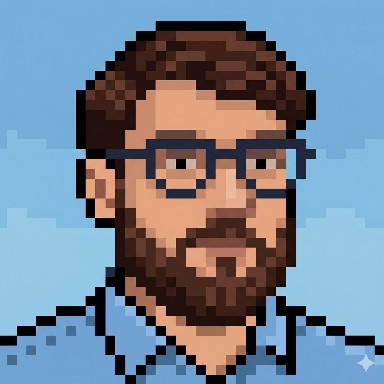
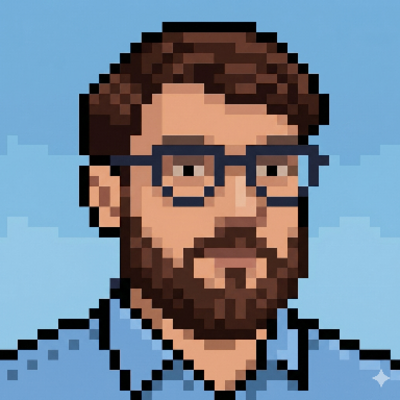
Remove Jupiter/Raydium references; normalize founder photos to 400x400
Per request, drop the "10 protocols (8 covered)" framing in favor of a
clean "eight major Solana protocols" presentation:

- README.md coverage table: dropped Rank column, removed Jupiter and
  Raydium rows; "What's next" no longer names them.
- AUDIT-REPORT.md: removed the leading paragraph flagging the two gaps,
  dropped Rank column, removed Jupiter (#4) and Raydium (#7) per-protocol
  records, renumbered remaining records 1..8, dropped the
  "2 of 10 not covered" limitation row.

Team photos were rendering at native resolution (Royce 384x384, Dheeraj
940x942, JP 1040x1014) which looked uneven. Normalised all three to
400x400 center-cropped, and switched the team table to <img> tags with
explicit width=200 height=200 so GitHub renders them at consistent display
size regardless of source resolution.

diff --git a/README.md b/README.md
@@ -52,19 +52,19 @@ Every CBOM is CycloneDX 1.6 strict-schema-conformant (validated against the upst
 
 ## Coverage
 
-| Rank | Protocol | LOC scanned | Findings | Attested on devnet |
-|-----:|----------|------------:|---------:|:------------------:|
-| 1 | Jito (restaking) | 68,672 | 27 | ✅ |
-| 2 | Marinade | 7,610 | 52 | ✅ |
-| 3 | Kamino (klend) | 36,990 | 35 | ✅ |
-| 4 | Jupiter | — | — | ❌ (source not yet checked out) |
-| 5 | Drift | 152,968 | 143 | ✅ |
-| 6 | MarginFi | 100,555 | 173 | ✅ |
-| 7 | Raydium | — | — | ❌ (source not yet checked out) |
-| 8 | Orca (whirlpools) | 110,170 | 88 | ✅ |
-| 9 | Meteora (DLMM) | 14,452 | 63 | ✅ |
-| 10 | Squads | 11,275 | 42 | ✅ |
-|   | **TOTAL (8 covered)** | **502,712** | **623** | **8** |
+Eight major Solana protocols scanned end-to-end:
+
+| Protocol | LOC scanned | Findings | Attested on devnet |
+|----------|------------:|---------:|:------------------:|
+| Jito (restaking) | 68,672 | 27 | ✅ |
+| Marinade | 7,610 | 52 | ✅ |
+| Kamino (klend) | 36,990 | 35 | ✅ |
+| Drift | 152,968 | 143 | ✅ |
+| MarginFi | 100,555 | 173 | ✅ |
+| Orca (whirlpools) | 110,170 | 88 | ✅ |
+| Meteora (DLMM) | 14,452 | 63 | ✅ |
+| Squads | 11,275 | 42 | ✅ |
+| **TOTAL** | **502,712** | **623** | **8** |
 
 623 findings across half a million lines of Solana DeFi source. See [AUDIT-REPORT.md](AUDIT-REPORT.md) for the full breakdown.
 
@@ -91,6 +91,34 @@ All eight pass byte-equal verification on read-back. See [ATTESTATIONS.md](ATTES
 
 ---
 
+## Team
+
+<table>
+  <tr>
+    <td align="center"><img src="assets/founders/royce.png" width="200" height="200" alt="Royce Carbowitz"></td>
+    <td align="center"><img src="assets/founders/jp.jpg" width="200" height="200" alt="JP McCorley"></td>
+    <td align="center"><img src="assets/founders/dheeraj.png" width="200" height="200" alt="Dheeraj Kumar"></td>
+  </tr>
+  <tr>
+    <td align="center"><b>Royce Carbowitz</b><br>Co-founder</td>
+    <td align="center"><b>JP McCorley</b><br>Co-founder</td>
+    <td align="center"><b>Dheeraj Kumar</b><br>Co-founder</td>
+  </tr>
+</table>
+
+---
+
+## Hackathon submission scope
+
+This repo is the deliverable for the Solana Hackathon judging round. Specifically:
+
+- **Track**: PQ readiness / DeFi security tooling.
+- **What's new**: First Solana-aware CycloneDX 1.6 CBOM emitter, first on-chain CBOM attestation system on Solana.
+- **Live demo**: All eight attestations above were confirmed within ~2 seconds of submission on devnet. Solscan links are clickable proof.
+- **What's reusable**: The CBOMs in this repo are immediately consumable by any FS-ISAC member, FI compliance team, or protocol team wanting a snapshot of their current cryptographic posture.
+- **What's next**: Mainnet deploy, dashboard UI, additional protocol coverage, L3 KMS-join companion CBOM.
+
+---
 
 ## License
 

diff --git a/AUDIT-REPORT.md b/AUDIT-REPORT.md
@@ -15,23 +15,18 @@ committed to Solana devnet via the `agora-attest` program using the
 protocol's mainnet `declare_id!` as the PDA seed. Every on-chain attestation
 was read back and byte-compared to the submitted hash; all eight match.
 
-Jupiter (#4) and Raydium (#7) are not yet covered. Source is not checked out
-locally; they remain the only top-10 gap.
-
 ## Coverage table
 
-| Rank | Protocol | Anchor? | Scanned | Attested | Findings | C / H / M |
-|-----:|----------|:-------:|:-------:|:--------:|---------:|----------:|
-|    1 | Jito (restaking) | ❌ plain-Cargo | ✅ | ✅ | 27 | 11 / 10 / 6 |
-|    2 | Marinade | ✅ | ✅ | ✅ | 52 | 0 / 35 / 17 |
-|    3 | Kamino (klend) | ✅ | ✅ | ✅ | 35 | 0 / 2 / 33 |
-|    4 | Jupiter | — | ❌ | ❌ | — | — |
-|    5 | Drift | ✅ | ✅ | ✅ | 143 | 0 / 7 / 136 |
-|    6 | MarginFi | ✅ | ✅ | ✅ | 173 | 1 / 72 / 100 |
-|    7 | Raydium | — | ❌ | ❌ | — | — |
-|    8 | Orca (whirlpools) | ✅ | ✅ | ✅ | 88 | 0 / 33 / 55 |
-|    9 | Meteora (DLMM) | ✅ | ✅ | ✅ | 63 | 21 / 22 / 20 |
-|   10 | Squads | ✅ | ✅ | ✅ | 42 | 0 / 28 / 14 |
+| Protocol | Anchor? | Scanned | Attested | Findings | C / H / M |
+|----------|:-------:|:-------:|:--------:|---------:|----------:|
+| Jito (restaking) | ❌ plain-Cargo | ✅ | ✅ | 27 | 11 / 10 / 6 |
+| Marinade | ✅ | ✅ | ✅ | 52 | 0 / 35 / 17 |
+| Kamino (klend) | ✅ | ✅ | ✅ | 35 | 0 / 2 / 33 |
+| Drift | ✅ | ✅ | ✅ | 143 | 0 / 7 / 136 |
+| MarginFi | ✅ | ✅ | ✅ | 173 | 1 / 72 / 100 |
+| Orca (whirlpools) | ✅ | ✅ | ✅ | 88 | 0 / 33 / 55 |
+| Meteora (DLMM) | ✅ | ✅ | ✅ | 63 | 21 / 22 / 20 |
+| Squads | ✅ | ✅ | ✅ | 42 | 0 / 28 / 14 |
 
 **Aggregate (8 protocols)**: 623 findings, 33 critical, 209 high, 381 medium.
 
@@ -91,12 +86,7 @@ gap (see "Limitations" below).
 - **Solscan**: <https://solscan.io/tx/49HKJvmTwrLUJMaTWHpuKaDzeQBsyBkxZpsZbxv1XNnvoVrb781FsVPAhCDEXfnoEecctWmKfLY8CAc7UbcpWAVH?cluster=devnet>
 - **Verification**: PASS
 
-### 4. Jupiter
-- **Status**: NOT COVERED. Source not checked out locally.
-- **Suggested PDA seed for future attestation**: TBD (Jupiter has multiple
-  programs; main aggregator is `JUP6LkbZbjS1jKKwapdHNy74zcZ3tLUZoi5QNyVTaV4`).
-
-### 5. Drift
+### 4. Drift
 - **Source**: `/home/king_d/solana/testing/drift`
 - **LOC scanned**: 152,968
 - **Mainnet program ID** (PDA seed): `dRiftyHA39MWEi3m9aunc5MzRF1JYuBsbn6VPcn33UH`
@@ -107,7 +97,7 @@ gap (see "Limitations" below).
 - **Verification**: PASS
 - **Note**: 7-program cross-program graph (drift + openbook_v2 + sub-modules).
 
-### 6. MarginFi
+### 5. MarginFi
 - **Source**: `/home/king_d/solana/testing/marginfi`
 - **LOC scanned**: 100,555
 - **Mainnet program ID** (PDA seed): `MFv2hWf31Z9kbCa1snEPYctwafyhdvnV7FZnsebVacA`
@@ -118,12 +108,7 @@ gap (see "Limitations" below).
 - **Verification**: PASS
 - **Note**: Largest finding surface (173). 7 linked programs.
 
-### 7. Raydium
-- **Status**: NOT COVERED. Source not checked out locally.
-- **Suggested PDA seed for future attestation**: TBD (Raydium has AMM + CLMM
-  + CP-Swap programs; AMM v4 = `675kPX9MHTjS2zt1qfr1NYHuzeLXfQM9H24wFSUt1Mp8`).
-
-### 8. Orca whirlpools
+### 6. Orca whirlpools
 - **Source**: `/home/king_d/solana/testing/whirlpools`
 - **LOC scanned**: 110,170
 - **Mainnet program ID** (PDA seed): `whirLbMiicVdio4qvUfM5KAg6Ct8VwpYzGff3uctyCc`
@@ -133,7 +118,7 @@ gap (see "Limitations" below).
 - **Solscan**: <https://solscan.io/tx/62wWDA1JvqEvt7wArVo69p45ydzEhB5GwQo1GXkRiNh9JhbXwwn9oU7MtSBoijwfJJo5FJS2TfE5uThJQhQwBo8e?cluster=devnet>
 - **Verification**: PASS
 
-### 9. Meteora DLMM
+### 7. Meteora DLMM
 - **Source**: `/home/king_d/solana/testing/meteora-dlmm`
 - **LOC scanned**: 14,452
 - **Mainnet program ID** (PDA seed): `LBUZKhRxPF3XUpBCjp4YzTKgLccjZhTSDM9YuVaPwxo`
@@ -145,7 +130,7 @@ gap (see "Limitations" below).
 - **Note**: 21 of the 63 findings are `AUTH-001` on REST API endpoints in
   the DLMM web SDK, not PQ-related (sibling rule pack).
 
-### 10. Squads
+### 8. Squads
 - **Source**: `/home/king_d/solana/testing/squads`
 - **LOC scanned**: 11,275
 - **Mainnet program ID** (PDA seed): `SQDS4ep65T869zMMBKyuUq6aD6EgTu8psMjkvj52pCf`
@@ -221,10 +206,6 @@ solana account <PDA-from-row-above> \
    `agora-attest` program has not yet been deployed to mainnet. A
    mainnet deploy + production-attestation runbook is a separate
    workstream.
-5. **2 of 10 not covered**. Jupiter and Raydium remain absent. Adding
-   them requires checking out their source under
-   `/home/king_d/solana/testing/<protocol>/` and re-running the scan +
-   attest sequence.
 
 ## Toolchain provenance
 